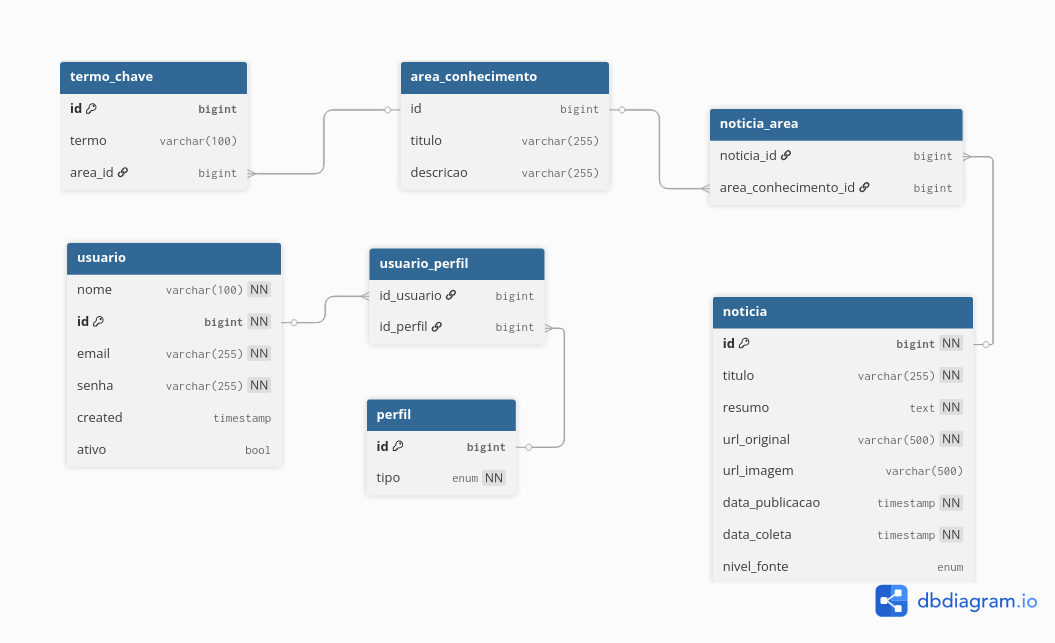
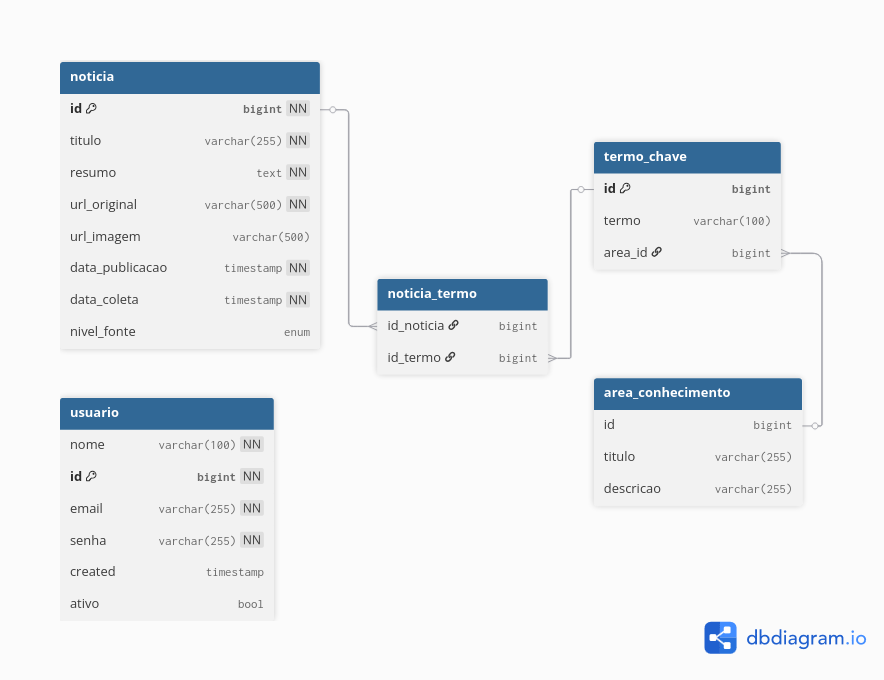
fix: modelo ER - remoção da relação noticia e categoria pois as categorias de uma notícia serão definidas de acordo com seus termos

diff --git a/Backend/src/main/java/com/ufsm/si/TrendFocus/model/noticia/Noticia.java b/Backend/src/main/java/com/ufsm/si/TrendFocus/model/noticia/Noticia.java
@@ -3,7 +3,6 @@ package com.ufsm.si.TrendFocus.model.noticia;
 import java.time.LocalDateTime;
 import java.util.HashSet;
 
-import com.ufsm.si.TrendFocus.model.categoria.Categoria;
 import com.ufsm.si.TrendFocus.model.termo.Termo;
 
 import jakarta.persistence.Column;
@@ -48,14 +47,6 @@ public class Noticia {
     @Column(name = "data_publicacao") private LocalDateTime dataPublicacao;
 
     @Column(name = "data_coleta") private LocalDateTime dataColeta;
-
-    @ManyToMany
-    @JoinTable(
-        name = "noticia_area",
-        joinColumns = @JoinColumn(name="noticia_id"),
-        inverseJoinColumns = @JoinColumn(name="area_conhecimento_id")
-    )
-    private HashSet<Categoria> categorias;
 
     @ManyToMany
     @JoinTable(

diff --git a/Backend/src/main/java/com/ufsm/si/TrendFocus/controller/UsuarioController.java b/Backend/src/main/java/com/ufsm/si/TrendFocus/controller/UsuarioController.java
@@ -17,9 +17,6 @@ import org.springframework.http.ResponseEntity;
 import org.springframework.web.bind.annotation.PostMapping;
 import org.springframework.web.bind.annotation.RequestBody;
 import org.springframework.web.bind.annotation.GetMapping;
-import org.springframework.web.bind.annotation.RequestParam;
-
-
 
 @RestController
 @RequestMapping("/usuario")

diff --git a/Backend/src/main/java/com/ufsm/si/TrendFocus/model/noticia/NoticiaDTO.java b/Backend/src/main/java/com/ufsm/si/TrendFocus/model/noticia/NoticiaDTO.java
@@ -31,6 +31,5 @@ public class NoticiaDTO {
         this.urlImagem = noticia.getUrlImagem();
         this.urlOriginal = noticia.getUrlOriginal();
         this.termos = noticia.getTermos();
-        this.categorias = noticia.getCategorias();
     }
 }
